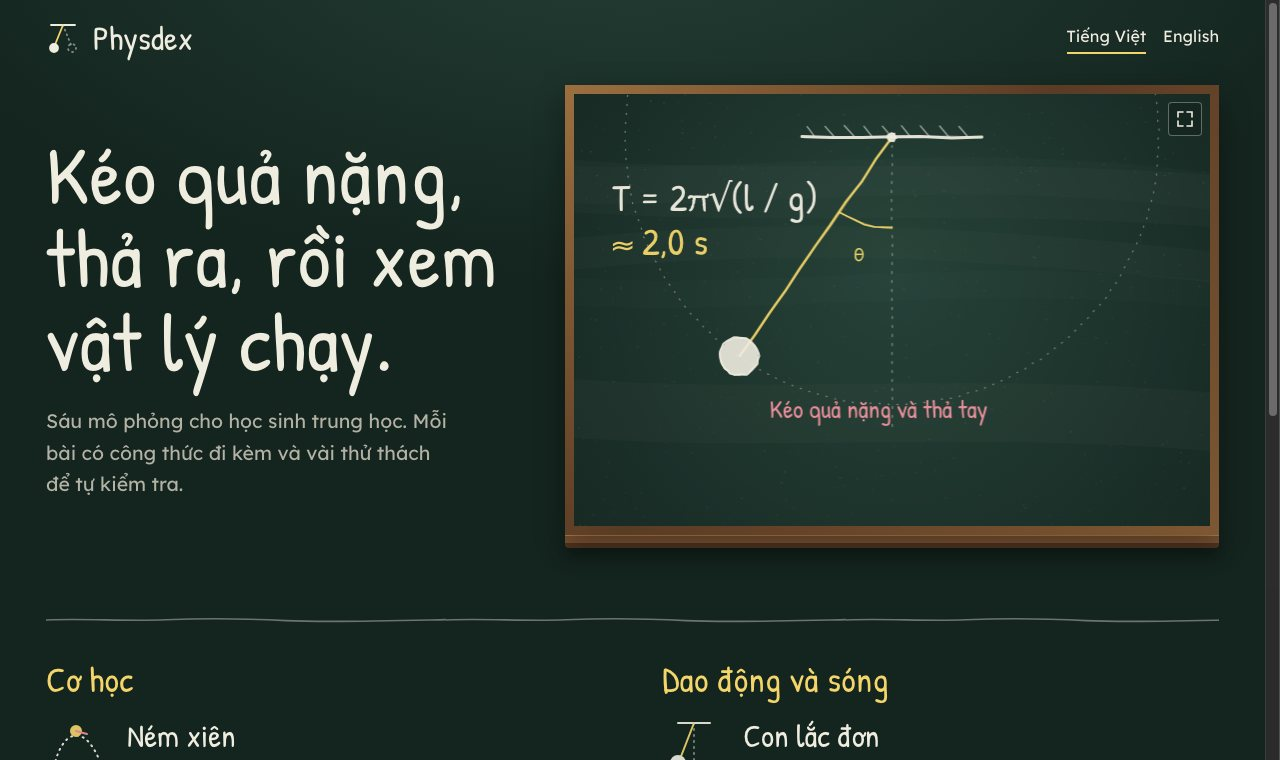
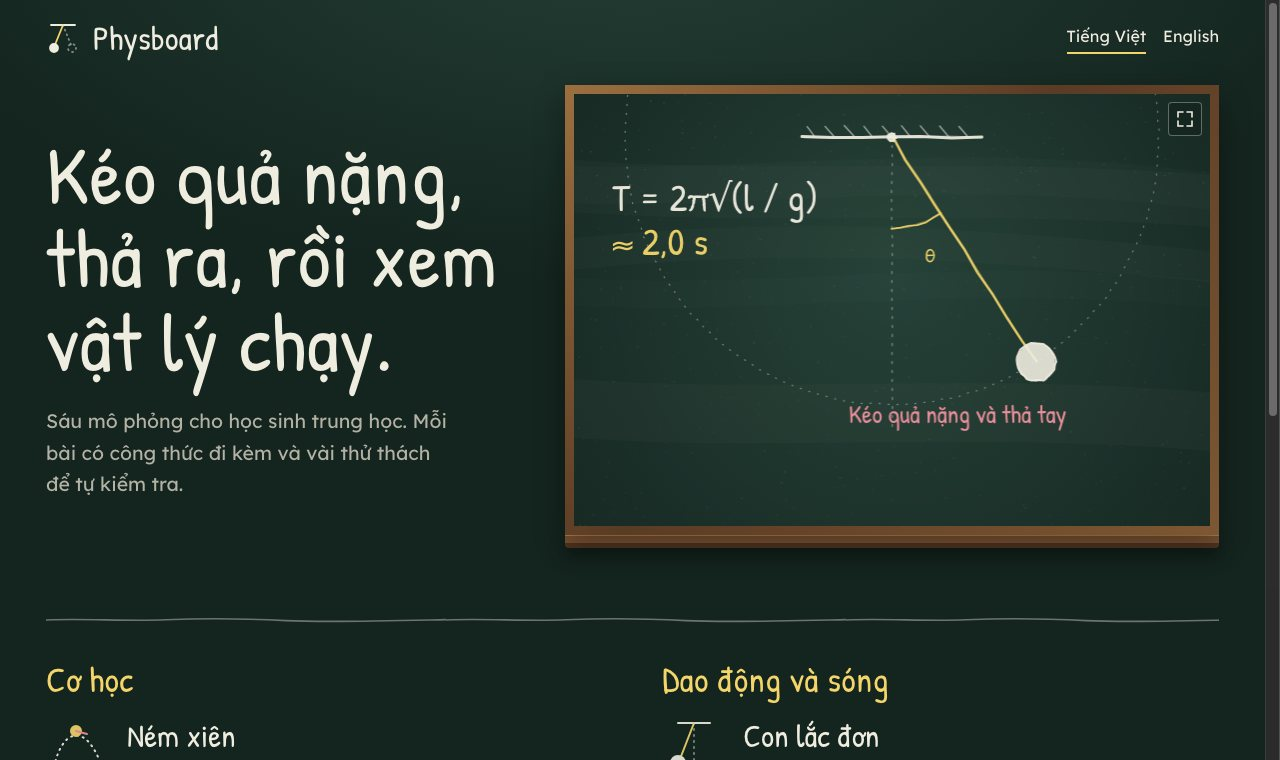
chore: rename Physdex to Physboard
The app is drawn on a blackboard, so the name now says so. Covers the
site name in both languages, the SEO and sitemap URLs, the Angular and
Firebase project names, the readme, and fresh screenshots.

diff --git a/src/app/i18n/en.ts b/src/app/i18n/en.ts
@@ -2,7 +2,7 @@ import type { Dict } from './dictionary';
 
 export const en: Dict = {
   site: {
-    name: 'Physdex',
+    name: 'Physboard',
     tagline: 'Interactive physics simulations',
     description:
       'Drag, adjust, and watch the physics run: projectile motion, pendulum, wave interference, satellite orbits, RLC circuits and lenses, with formulas and challenges.',

diff --git a/src/app/i18n/vi.ts b/src/app/i18n/vi.ts
@@ -4,7 +4,7 @@
  */
 export const vi = {
   site: {
-    name: 'Physdex',
+    name: 'Physboard',
     tagline: 'Mô phỏng vật lý tương tác',
     description:
       'Kéo, chỉnh, rồi xem vật lý chạy: ném xiên, con lắc, giao thoa sóng, quỹ đạo vệ tinh, mạch RLC và thấu kính, kèm công thức và thử thách.',

diff --git a/src/app/core/seo.ts b/src/app/core/seo.ts
@@ -3,7 +3,7 @@ import { inject, Injectable } from '@angular/core';
 import { Meta, Title } from '@angular/platform-browser';
 import { I18n, LANGS, pathFor } from '../i18n/i18n';
 
-export const SITE_URL = 'https://physdex.web.app';
+export const SITE_URL = 'https://physboard.web.app';
 
 const OG_LOCALE = { vi: 'vi_VN', en: 'en_US' } as const;
 

diff --git a/src/index.html b/src/index.html
@@ -2,7 +2,7 @@
 <html lang="vi">
   <head>
     <meta charset="utf-8" />
-    <title>Physdex</title>
+    <title>Physboard</title>
     <base href="/" />
     <meta name="viewport" content="width=device-width, initial-scale=1" />
     <meta name="theme-color" content="#14241f" />

diff --git a/README.md b/README.md
@@ -1,6 +1,6 @@
-# Physdex
+# Physboard
 
-🌐 **Live:** https://physdex.web.app
+🌐 **Live:** https://physboard.web.app
 
 Interactive physics simulations for high-school students, in **Vietnamese and English**. Drag the weight, change the numbers, and watch the physics run.
 
@@ -59,10 +59,10 @@ Settings live in the URL (`/pendulum?l=1&th=60&g=9.81&b=0`), so any setup can be
 npm install
 npm start          # dev server at http://localhost:4200
 npm test           # unit and component tests
-npm run build      # prerender both languages into dist/physdex/browser
+npm run build      # prerender both languages into dist/physboard/browser
 ```
 
-Deploy with `npm run deploy:firebase` (needs the Firebase CLI and access to the `physdex` project).
+Deploy with `npm run deploy:firebase` (needs the Firebase CLI and access to the `physboard` project).
 
 ## Project layout
 
